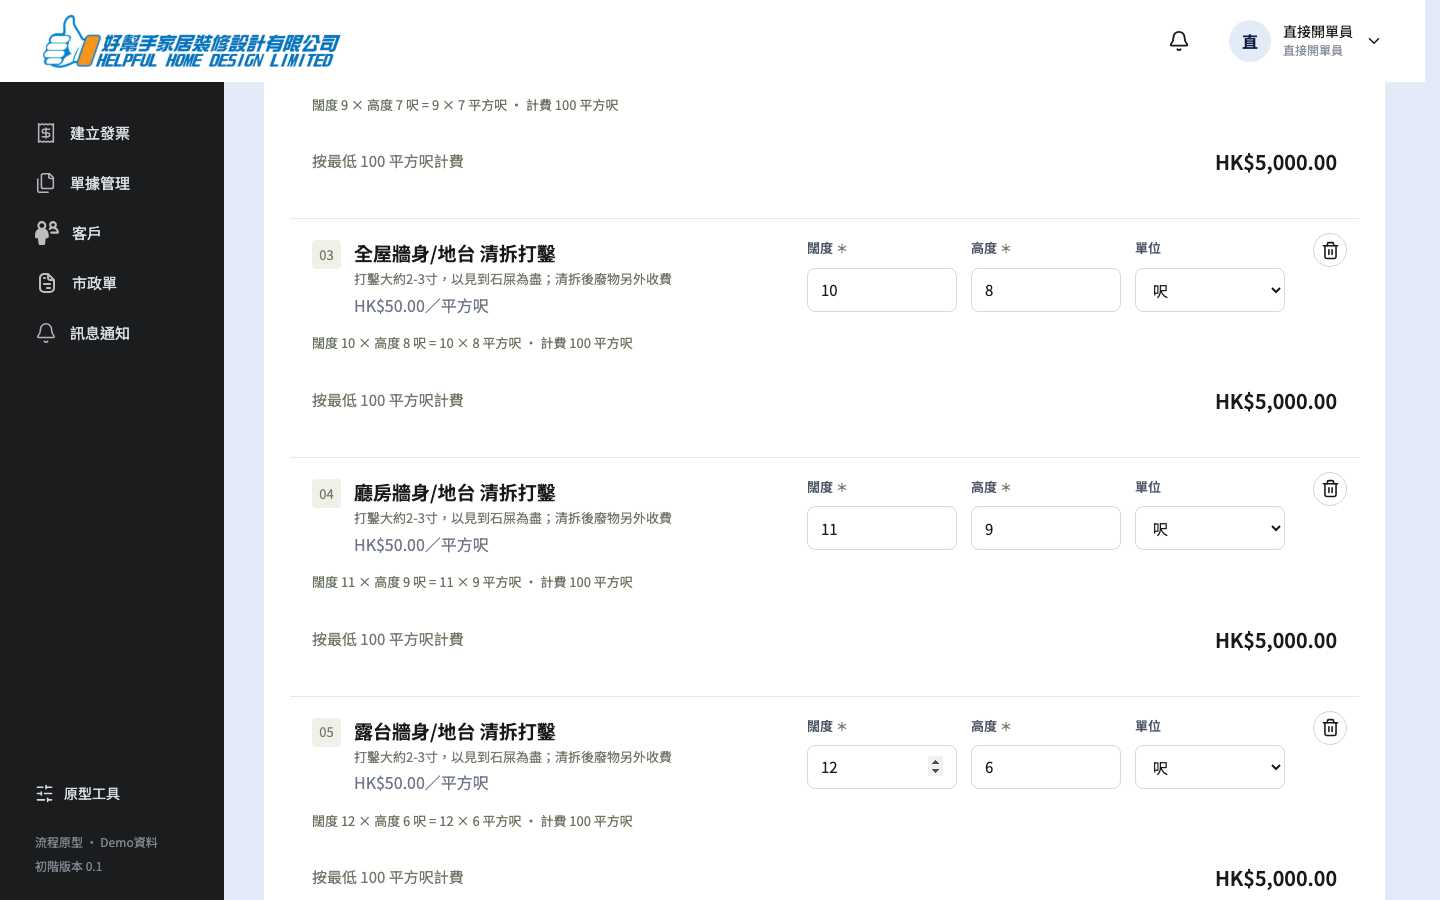
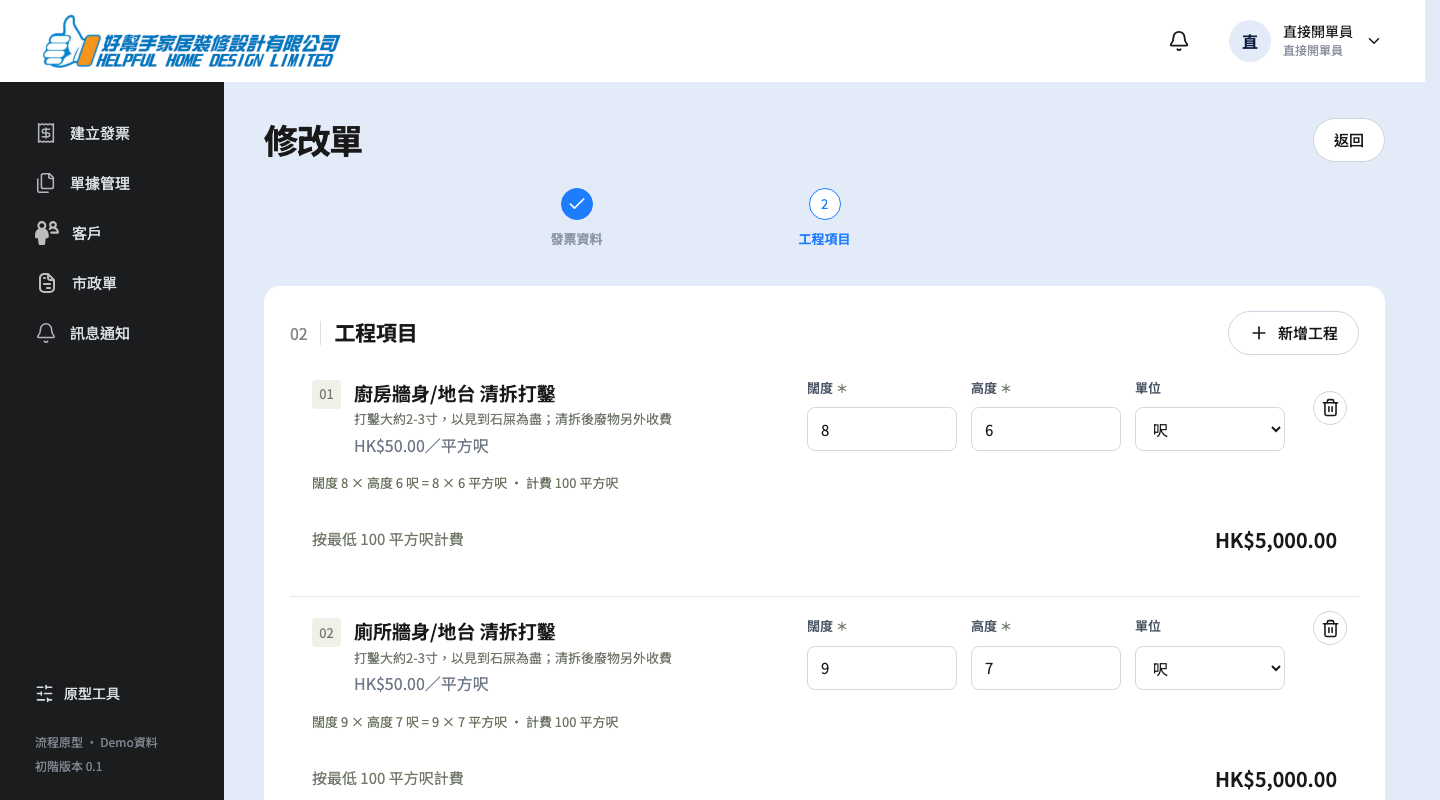
fix(invoices): open amendment directly on item step

diff --git a/tests/e2e/invoice-amend.spec.ts b/tests/e2e/invoice-amend.spec.ts
@@ -22,9 +22,8 @@ test("單據管理每張Invoice有修改單入口", async ({ page }) => {
     page.getByRole("heading", { name: "修改單", exact: true }),
   ).toBeVisible();
   await expect(
-    page.getByRole("heading", { name: "銷售員資料", exact: false }),
+    page.getByRole("heading", { name: "工程項目", exact: false }),
   ).toBeVisible();
-  await page.getByRole("button", { name: /^下一步/ }).click();
   await expect(
     page.getByRole("button", { name: "儲存修改", exact: true }),
   ).toBeVisible();

diff --git a/src/pages/Quotes.tsx b/src/pages/Quotes.tsx
@@ -752,7 +752,7 @@ export function QuoteEditor() {
   );
   const [reason, setReason] = useState("");
   const [wizardStep, setWizardStep] = useState<1 | 2 | 3>(
-    orderEdit || resumeStep === "2" ? 2 : 1,
+    editingInvoice || orderEdit || resumeStep === "2" ? 2 : 1,
   );
   const today = new Date();
   const todayValue = `${today.getFullYear()}-${String(today.getMonth() + 1).padStart(2, "0")}-${String(today.getDate()).padStart(2, "0")}`;
